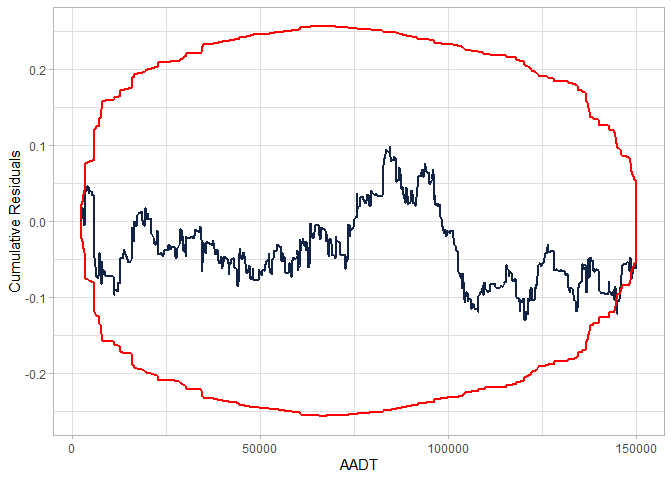
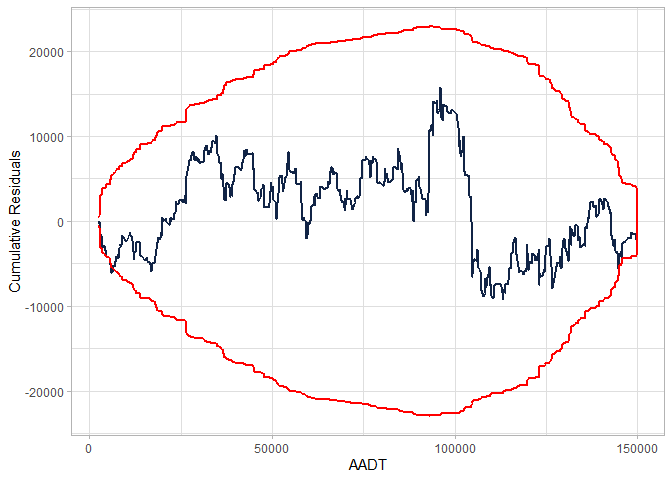
version 1.1.1

diff --git a/README.md b/README.md
@@ -78,7 +78,7 @@ y <- rpois(n, theta)
 mod <- glm(y ~ LNAADT + nlanes, family = poisson)
 
 ## Calculate residuals
-res <- residuals(mod, type = "working")
+res <- residuals(mod, type = "response")
 
 ## Calculate CURE plot data
 cure_df <- calculate_cure_dataframe(AADT, res)
@@ -86,14 +86,14 @@ cure_df <- calculate_cure_dataframe(AADT, res)
 
 head(cure_df)
 #> # A tibble: 6 × 5
-#>    AADT  residual    cumres     lower    upper
-#>   <dbl>     <dbl>     <dbl>     <dbl>    <dbl>
-#> 1 2363. -0.000379 -0.000379 -0.000743 0.000743
-#> 2 2435.  0.0112    0.0108   -0.0219   0.0219  
-#> 3 2724.  0.00769   0.0185   -0.0266   0.0266  
-#> 4 2978. -0.00233   0.0162   -0.0270   0.0270  
-#> 5 3007. -0.0119    0.00424  -0.0356   0.0356  
-#> 6 3149. -0.0101   -0.00589  -0.0407   0.0407
+#>    AADT residual  cumres  lower upper
+#>   <dbl>    <dbl>   <dbl>  <dbl> <dbl>
+#> 1 2363.   -233.   -233.   -457.  457.
+#> 2 2435.     17.2  -216.   -459.  459.
+#> 3 2724.    246.     29.9  -666.  666.
+#> 4 2978.  -1539.  -1509.  -3081. 3081.
+#> 5 3007.    -19.5 -1528.  -3081. 3081.
+#> 6 3149.   -338.  -1867.  -3151. 3151.
 
 ## Providing CURE data frame
 cure_plot(cure_df)
@@ -116,7 +116,7 @@ cure_plot(mod, "LNAADT")
 ``` r
 library(cureplots)
 
-## basic example
+## Basic example
 
 set.seed(2000)
 
@@ -137,7 +137,7 @@ y <- rpois(n, theta)
 mod <- glm(y ~ LNAADT + nlanes, family = poisson)
 
 ## Calculate residuals
-res <- residuals(mod, type = "working")
+res <- residuals(mod, type = "response")
 
 ## Calculate CURE plot data
 cure_df <- calculate_cure_dataframe(AADT, res)

diff --git a/NEWS.md b/NEWS.md
@@ -1,3 +1,7 @@
+# cureplots 1.1.1
+
+* Use "response" residuals
+
 # cureplots 1.1.0
 
 * Add function to resample residuals.
